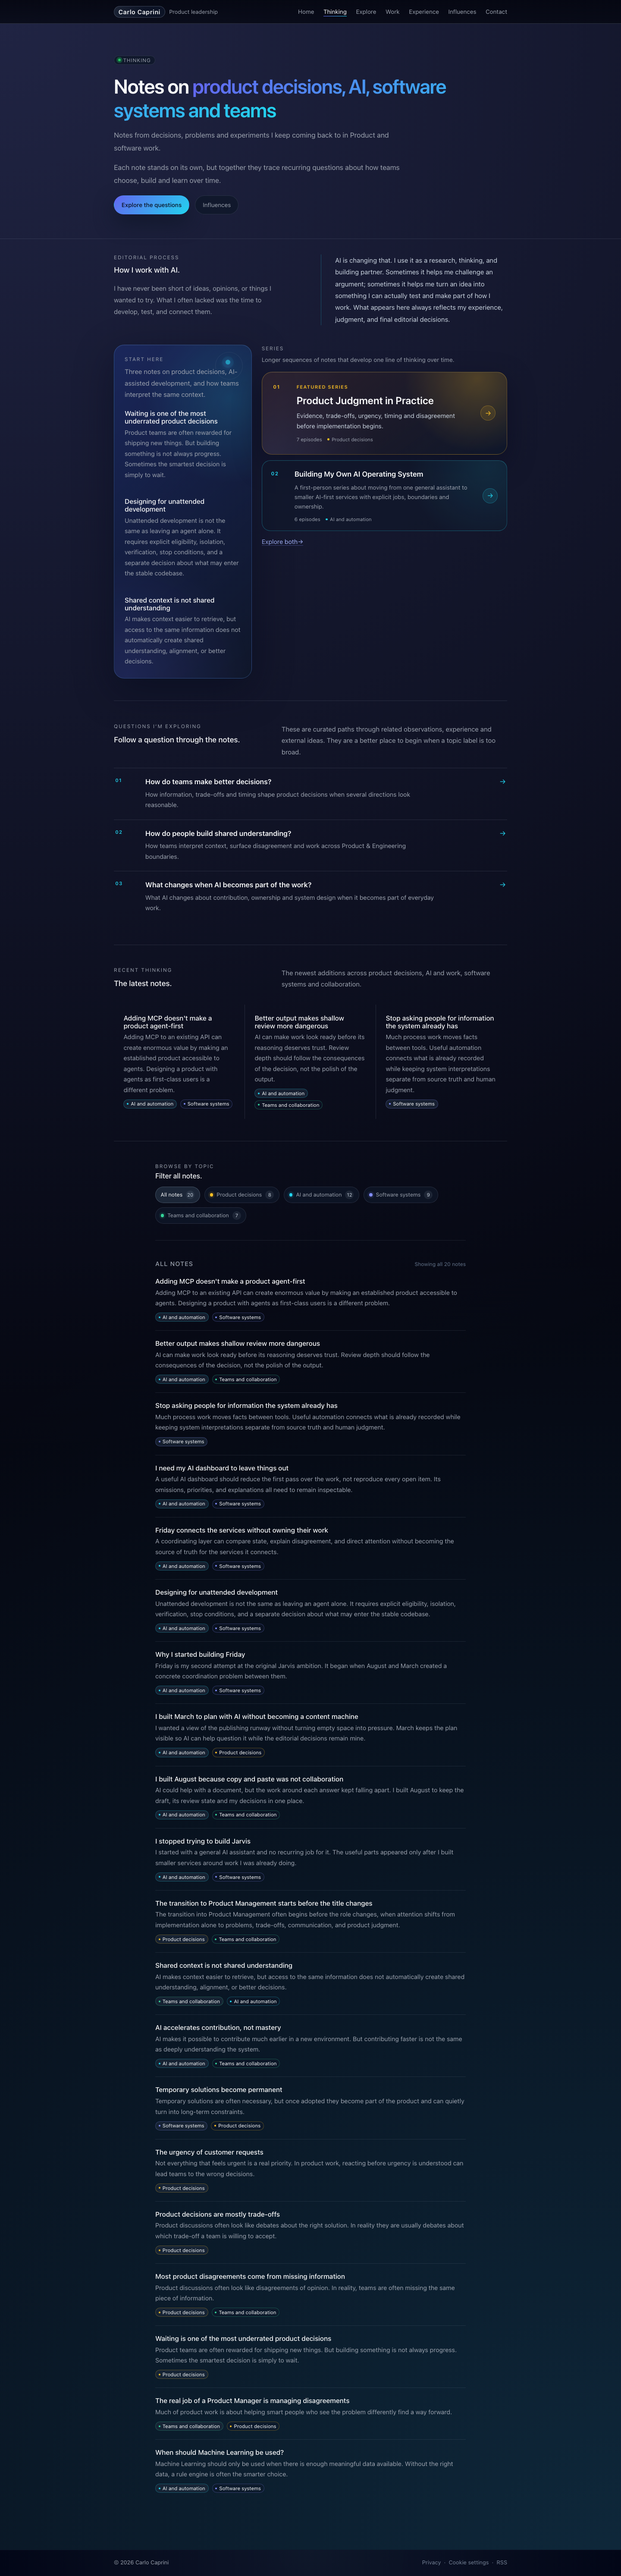
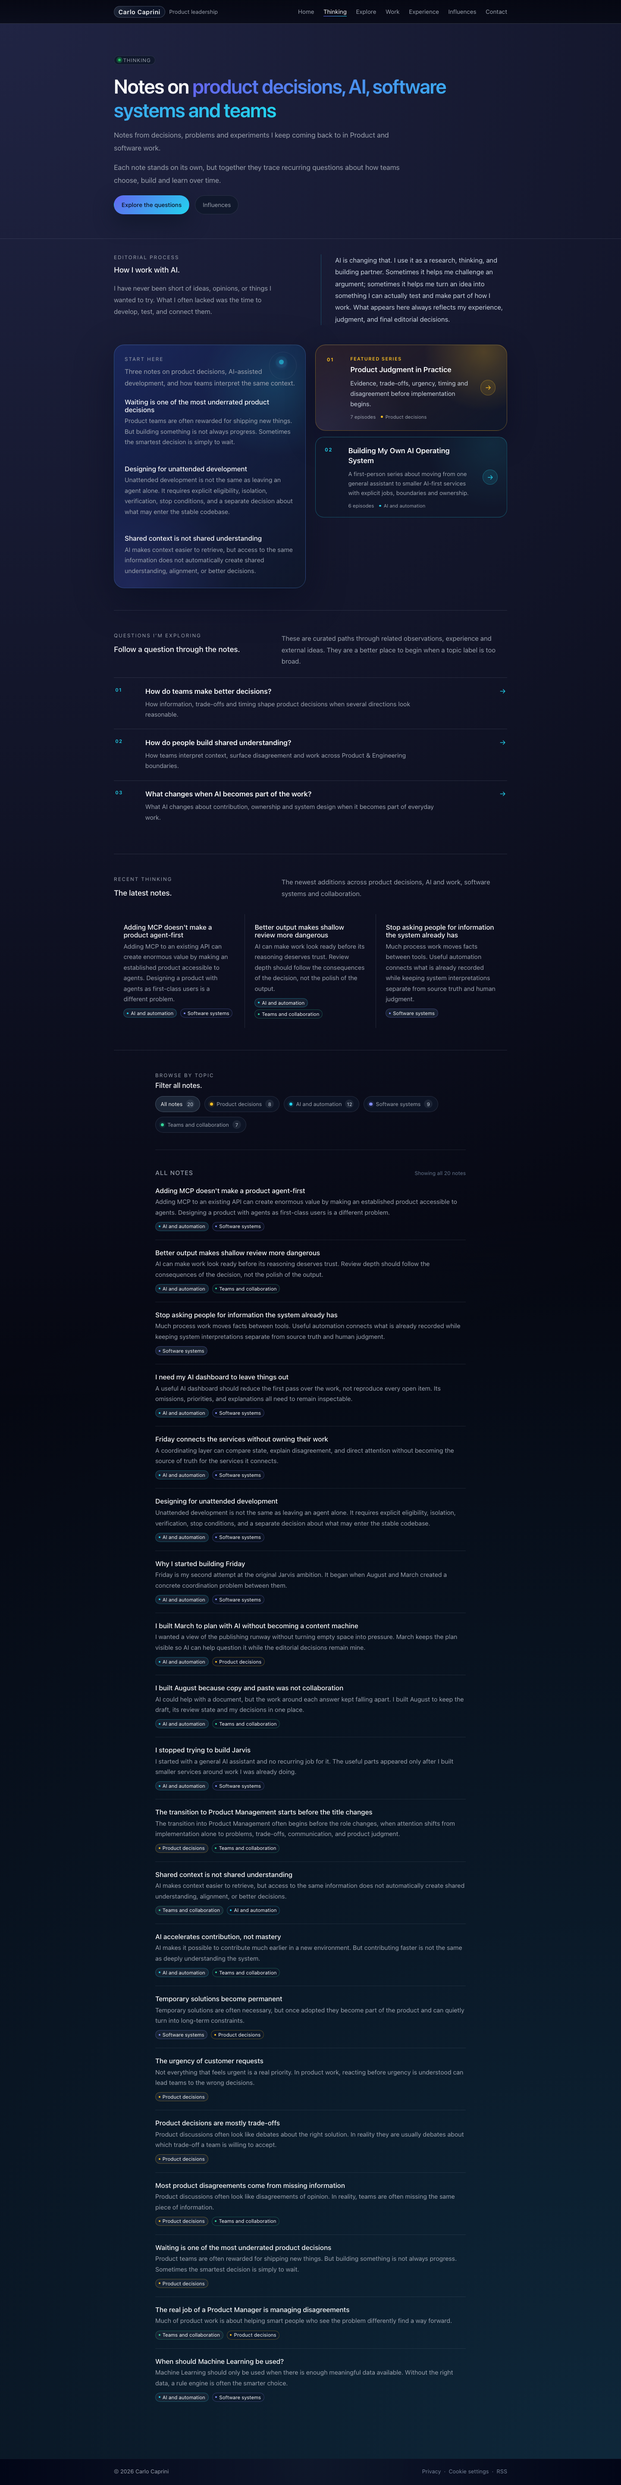
Rebalance Thinking discovery panels

diff --git a/_layouts/thinking.html b/_layouts/thinking.html
@@ -71,11 +71,7 @@ layout: default
       </div>
       {% endif %}
       {% if page.series and page.series.items %}
-        <section class="thinking-series-stack" aria-labelledby="thinking-series-title">
-          <div class="thinking-series-stack-header">
-            <div class="section-eyebrow" id="thinking-series-title">Series</div>
-            <p>{{ page.series.description }}</p>
-          </div>
+        <section class="thinking-series-stack" aria-label="Editorial series">
           <ol class="thinking-series-cards">
             {% for series_slug in page.series.items %}
               {% assign listed_series = site.data.series[series_slug] %}
@@ -99,7 +95,6 @@ layout: default
               </li>
             {% endfor %}
           </ol>
-          <a class="section-link thinking-series-browse" href="{{ '/explore/#series' | relative_url }}" data-analytics-event="collection_open" data-analytics-collection="explore" data-analytics-link-context="thinking_series">Explore both <span aria-hidden="true">→</span></a>
         </section>
       {% endif %}
       </div>

diff --git a/_includes/styles/featured-and-series.css b/_includes/styles/featured-and-series.css
@@ -6,7 +6,7 @@
 
 .thinking-entry-grid {
   display: grid;
-  grid-template-columns: minmax(17rem, 0.72fr) minmax(0, 1.28fr);
+  grid-template-columns: repeat(2, minmax(0, 1fr));
   gap: 1.4rem;
   align-items: start;
   margin-bottom: 2.8rem;
@@ -356,14 +356,6 @@
 
 .thinking-series-stack {
   min-width: 0;
-  padding: 0.15rem 0 0;
-}
-
-.thinking-series-stack-header p {
-  margin: 0.55rem 0 1rem;
-  color: var(--color-text-muted);
-  font-size: 0.86rem;
-  line-height: 1.65;
 }
 
 .thinking-series-cards {
@@ -463,11 +455,6 @@
   line-height: 1.4;
 }
 
-.thinking-series-card--featured .thinking-series-card-content > strong {
-  max-width: 30rem;
-  font-size: clamp(1.2rem, 2vw, 1.48rem);
-}
-
 .thinking-series-card-description {
   max-width: 38rem;
   margin-top: 0.45rem;
@@ -505,10 +492,6 @@
   border-radius: 999px;
   color: var(--thinking-series-accent);
   background: var(--thinking-series-accent-soft);
-}
-
-.thinking-series-browse {
-  margin-top: 1rem;
 }
 
 .home-series-preview {

diff --git a/tests/browser/responsive.spec.js b/tests/browser/responsive.spec.js
@@ -217,11 +217,15 @@ test("multi-Series discovery and Product sequence adapt across breakpoints", asy
   );
   expect(thinkingColumns).toBe(testInfo.project.name === "desktop-chromium" ? 2 : 1);
   await expect(page.locator(".thinking-series-stack .thinking-series-card")).toHaveCount(2);
+  const seriesTitleSizes = await page.locator(".thinking-series-card-content > strong").evaluateAll((elements) =>
+    elements.map((element) => getComputedStyle(element).fontSize)
+  );
+  expect(new Set(seriesTitleSizes).size).toBe(1);
   if (testInfo.project.name === "desktop-chromium") {
     const entryWidths = await page.locator(".thinking-entry-grid > *").evaluateAll((elements) =>
       elements.map((element) => element.getBoundingClientRect().width)
     );
-    expect(entryWidths[0]).toBeLessThan(entryWidths[1]);
+    expect(Math.abs(entryWidths[0] - entryWidths[1])).toBeLessThanOrEqual(1);
   }
 
   await page.goto("/explore/#series");

diff --git a/tests/browser/editorial-journeys.spec.js b/tests/browser/editorial-journeys.spec.js
@@ -38,6 +38,7 @@ test("Thinking separates guided, recent and complete discovery", async ({ page }
   await expect(series.first()).toHaveClass(/thinking-series-card--featured/);
   await expect(series.first().locator(".thinking-series-card-label")).toHaveText("Featured series");
   await expect(series.first().locator(".thinking-series-card-link")).toHaveAttribute("data-analytics-link-context", "thinking_series");
+  await expect(page.locator(".thinking-series-stack-header, .thinking-series-browse")).toHaveCount(0);
 });
 
 test("ruled collections stop before the next section divider", async ({ page }) => {

diff --git a/pages/thinking.md b/pages/thinking.md
@@ -24,7 +24,6 @@ start_here:
   title: Start here
   description: Three notes on product decisions, AI-assisted development, and how teams interpret the same context.
 series:
-  description: Longer sequences of notes that develop one line of thinking over time.
   items:
     - product-judgment-in-practice
     - building-my-ai-operating-system
